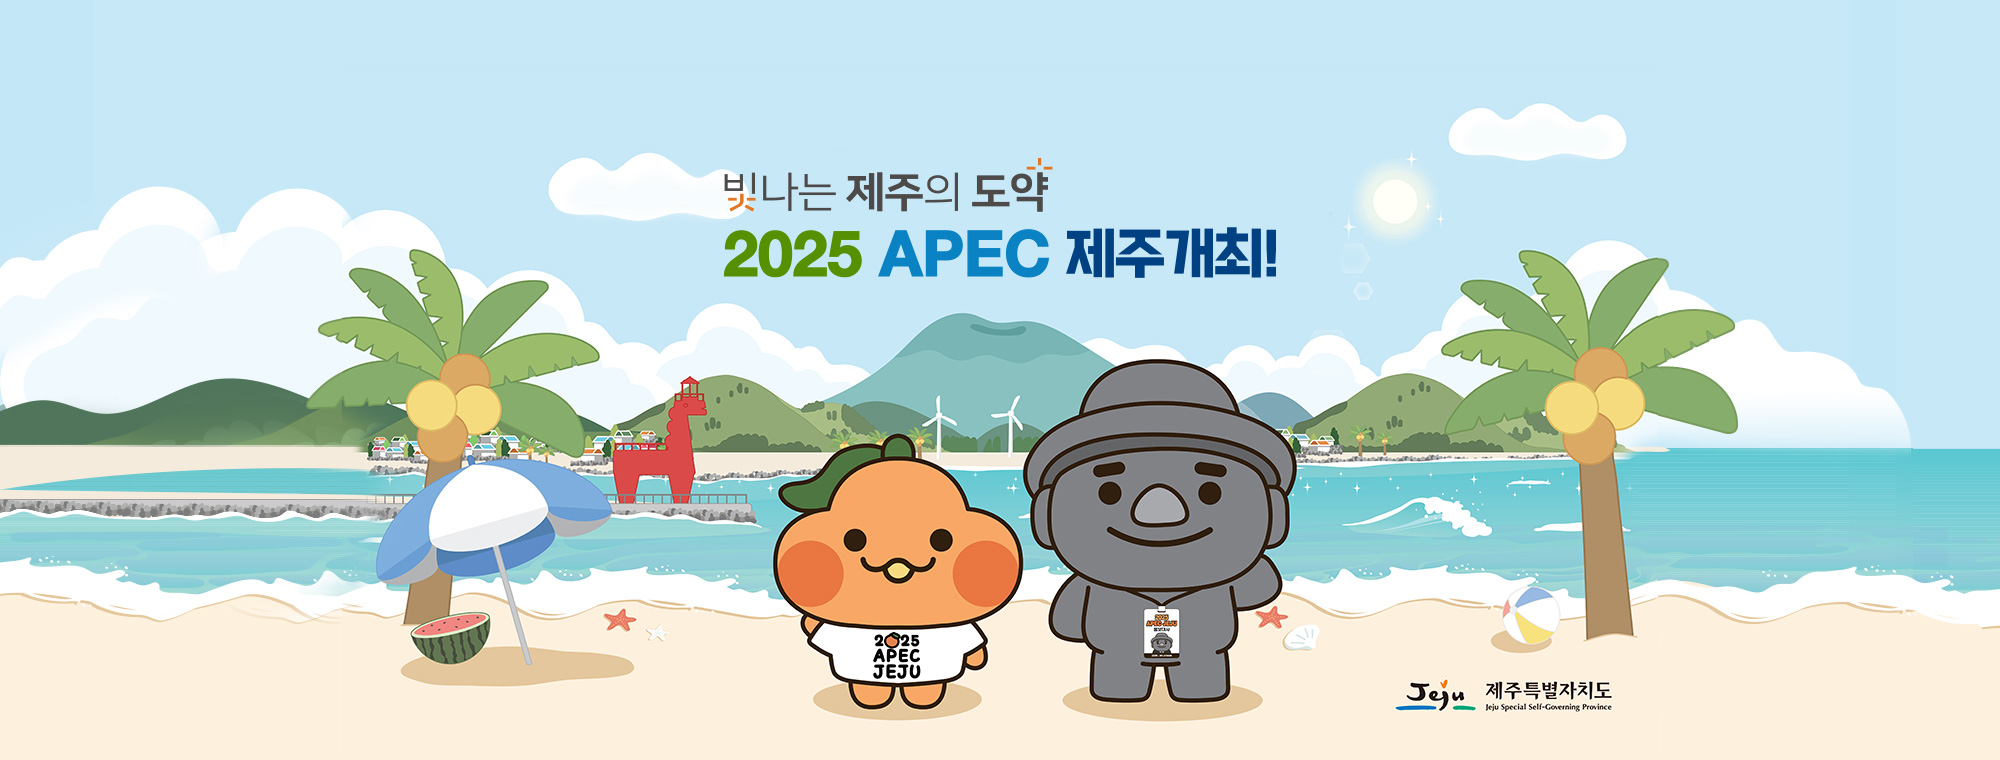
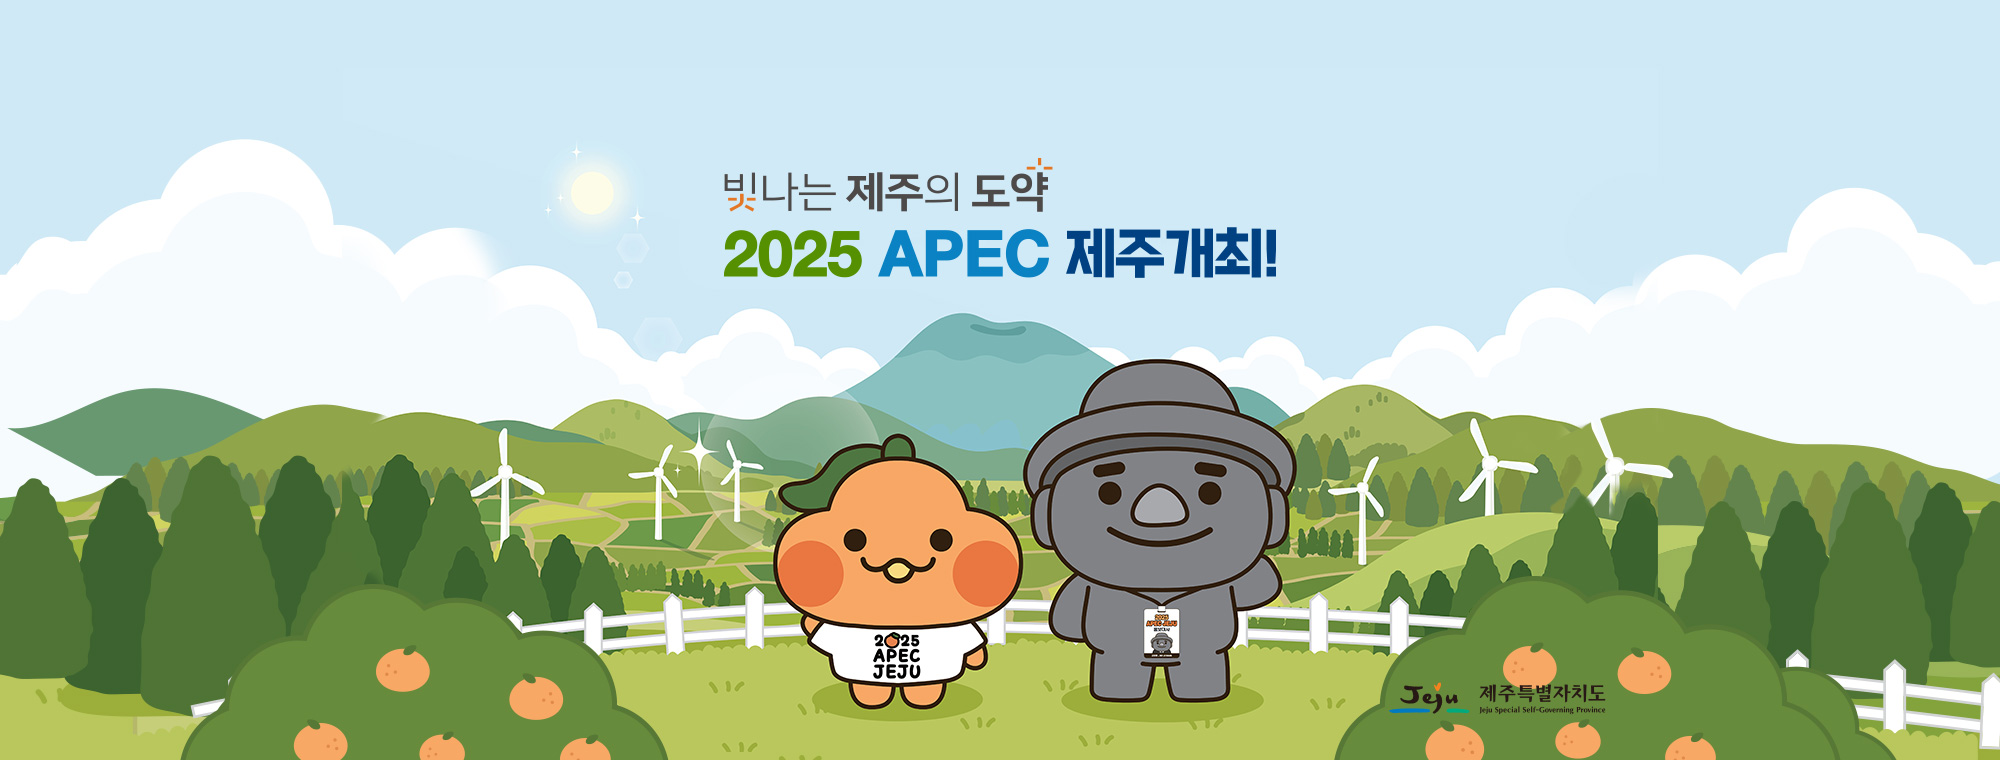
fix: User entity 컬럼 오류 수정
- 소셜로그인코드가 유저 컬럼에 포함되던 오류 수정
- password 엔티티 클래스의 주석 처리했던 코드 삭제
- 메인 홈페이지 이미지 변경(임시)

diff --git a/src/main/resources/templates/home.html b/src/main/resources/templates/home.html
@@ -22,9 +22,6 @@
             <div class="carousel-item" style="height: 100%;">
                 <img th:src="@{/img/home/apec03.jpg}" class="d-block w-100 h-100" alt="https://ijto.or.kr/korean/">
             </div>
-            <div class="carousel-item" style="height: 100%;">
-                <img th:src="@{/img/home/apec04.jpg}" class="d-block w-100 h-100" alt="https://ijto.or.kr/korean/">
-            </div>
         </div>
         <button class="carousel-control-prev" type="button" data-bs-target="#carouselExampleAutoplaying" data-bs-slide="prev">
             <span class="carousel-control-prev-icon" aria-hidden="true"></span>

diff --git a/src/main/java/com/donguri/jejudorang/domain/user/entity/auth/Password.java b/src/main/java/com/donguri/jejudorang/domain/user/entity/auth/Password.java
@@ -38,9 +38,4 @@ public class Password extends BaseEntity {
         this.password = passwordEncoder.encode(password);
     }
 
-    // 패스워드 암호화
-//    public void encodePassword(PasswordEncoder passwordEncoder) {
-//        this.password = passwordEncoder.encode(password);
-//    }
-
 }

diff --git a/src/main/java/com/donguri/jejudorang/domain/user/entity/auth/SocialLogin.java b/src/main/java/com/donguri/jejudorang/domain/user/entity/auth/SocialLogin.java
@@ -19,7 +19,7 @@ public class SocialLogin extends BaseEntity {
     @Column(nullable = false)
     private String socialExternalId;
 
-    @JoinColumn(name = "user_id", nullable = false)
+    @JoinColumn(name = "user_id")
     @OneToOne
     private User user;
 

diff --git a/src/main/java/com/donguri/jejudorang/domain/user/entity/User.java b/src/main/java/com/donguri/jejudorang/domain/user/entity/User.java
@@ -46,7 +46,6 @@ public class User {
 
     @OneToOne(fetch = FetchType.LAZY,
             mappedBy = "user", cascade = CascadeType.PERSIST, orphanRemoval = true)
-    @JoinColumn(name = "social_login_code")
     private SocialLogin socialLogin;
 
 
